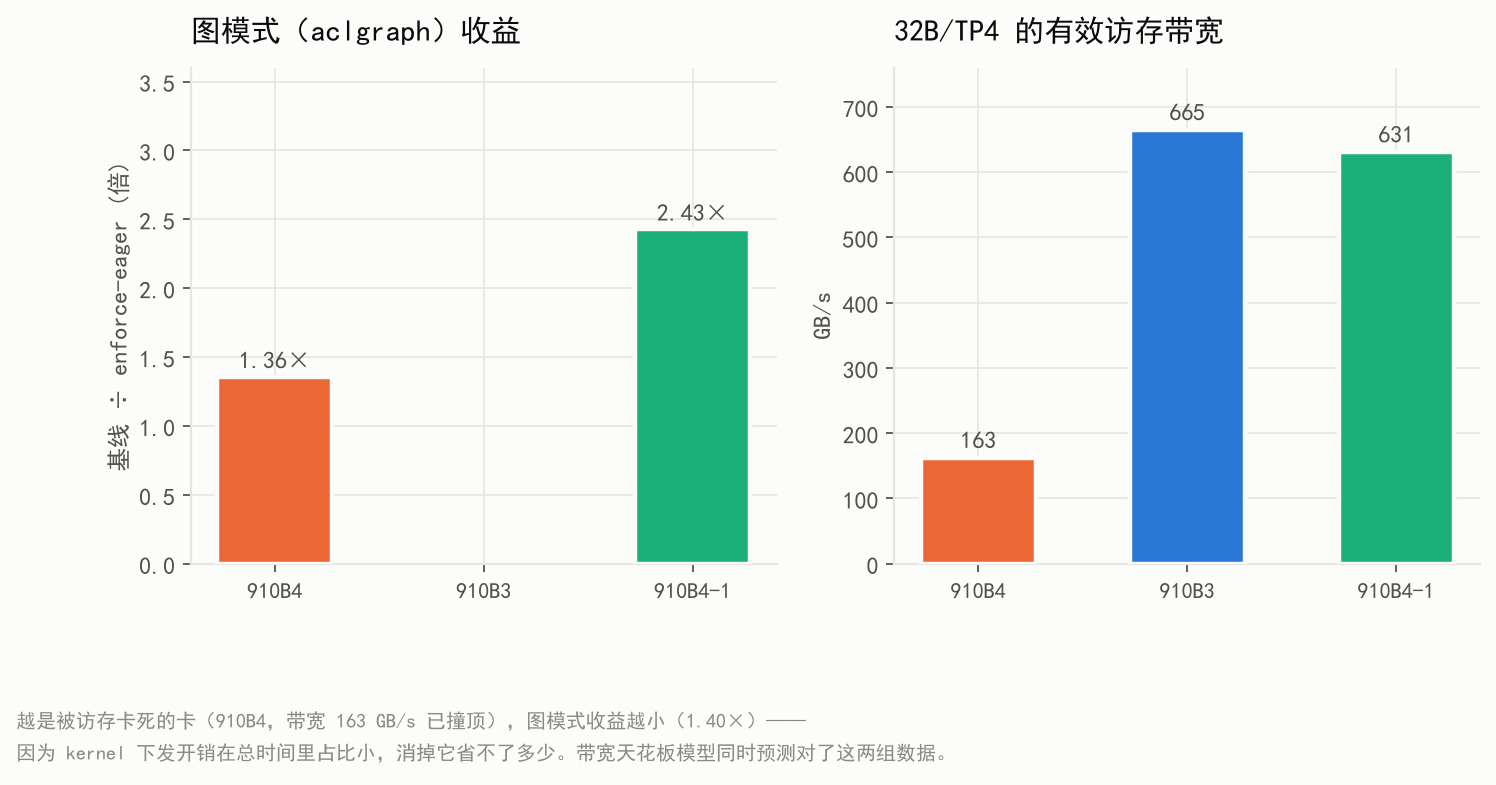
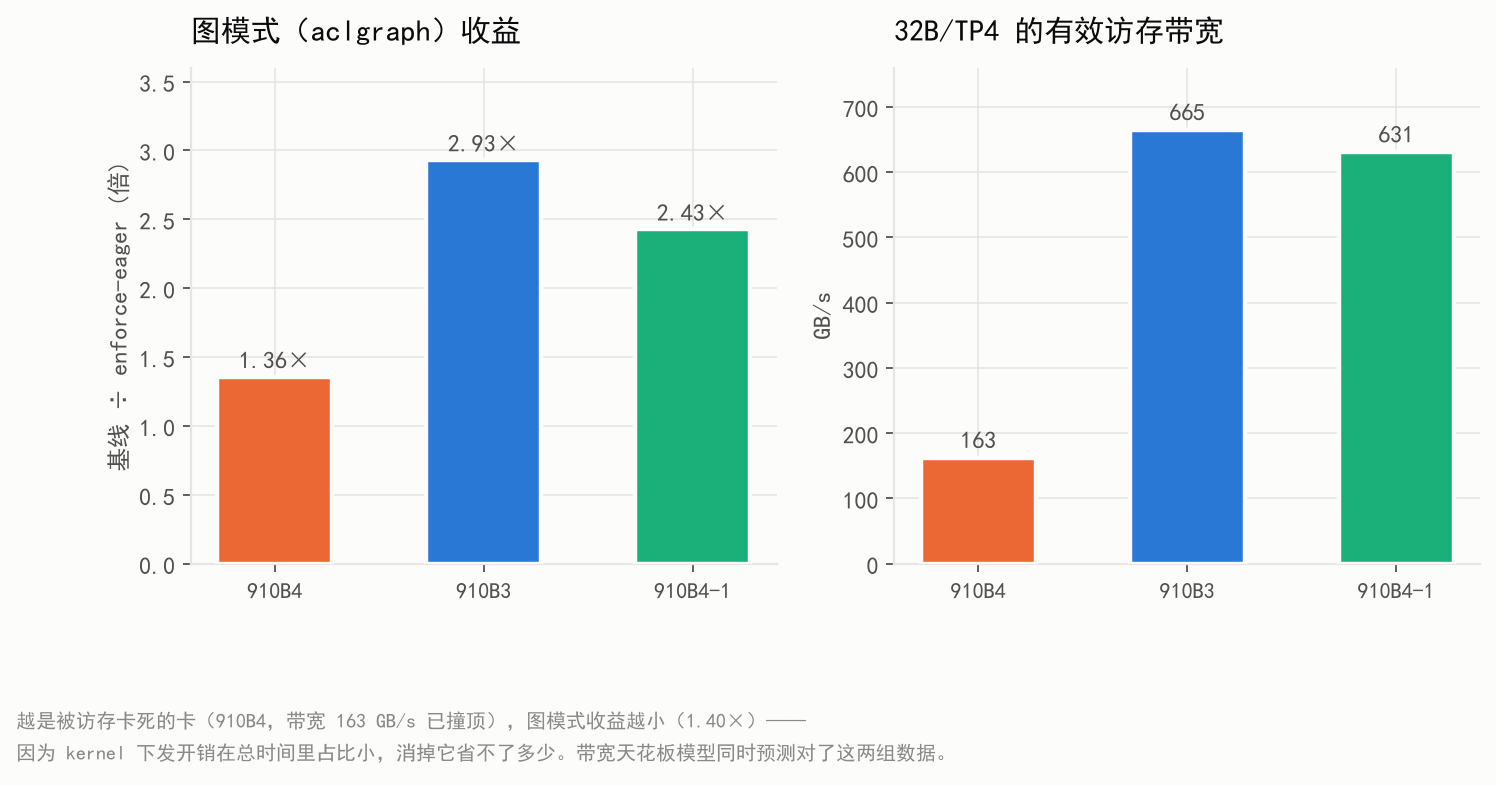
content(draft): 参数结论按三型号数据修正，中英双语同步
910B3 补齐 x3 后,两条结论要改:
- weight_nz_mode: 「方向相反」→「三型号三种表现」(+8.86% / -1.04%噪声内 / -2.23%)
- enable_flashcomm1: 「唯一有正收益」→「两台有效、910B3 上无效(+0.34%)」

修正后的结论反而更强:
8 个昇腾专属参数里,唯二有收益的都在某个型号上失效或反转
→ 没有一份「昇腾调优最佳实践」能跨型号照抄,每换 SKU 都得重测

表格新增「效应/噪声倍数」列,并明确标注「噪声内」的点只能说无收益、不能说有害

Claude-Session: https://claude.ai/code/session_01RZfESbLUbLZAfKUXXmW8YV

Changed region(s): [[0.2767, 0.1529, 0.369, 0.7338]]

diff --git a/content/posts/ascend-3models-bandwidth-ceiling/index.md b/content/posts/ascend-3models-bandwidth-ceiling/index.md
@@ -10,7 +10,7 @@ ShowToc: true
 > **TL;DR** — I had three Ascend boxes at once: 910B4 (32G), 910B3 (64G), 910B4-1 (64G). Same image digest, same methodology, 504 measured points. Five numbers worth remembering:
 > **(1) Small models give you the opposite answer** — 910B4 vs 910B3 is **11%** slower on 4B, **309%** slower on 32B;
 > **(2) The mechanism is an effective-bandwidth ceiling** — 910B4 flatlines at **~160 GB/s** from just 2 GB of weights per card, while the other two climb to **665 GB/s**;
-> **(3) Of 8 Ascend-only tuning knobs, exactly one helps** (`enable_flashcomm1`, **+4~5%**), and `weight_nz_mode` **flips sign between SKUs of the same generation: +8.86% vs −2.23%** (both x3-verified, 3~25× the noise floor);
+> **(3) Of 8 Ascend-only tuning knobs, not one works across all three SKUs** — `weight_nz_mode` gives three different outcomes (+8.86% / −1.04% / −2.23%), and `enable_flashcomm1` buys +4~5% on two boxes but is dead on the third (all x3-verified);
 > **(4) Quantization buys latency, not throughput** — W8A8 gives +13% throughput but **+80% goodput**; meanwhile the card with the *biggest* throughput gain (+29%) gains **zero** usable capacity;
 > **(5) I'm retracting a July conclusion** — "Ascend fp16 is 15% slower than bf16" was a **protocol asymmetry**. Same box, same protocol, the real gap is **3%**.
 
@@ -122,19 +122,25 @@ Ascend exposes a set of tuning knobs that simply don't exist in CUDA land (`weig
 
 **Every point measured 3× independently, median reported. The measured x3 spread is only 0.06~0.92%** — which is why these percentages are signal, not noise:
 
-| Parameter | 910B4 | 910B4-1 | Effect / noise | Verdict |
+| Parameter | 910B4 (32G) | 910B3 (64G) | 910B4-1 (64G) | Verdict |
 |---|---:|---:|---:|---|
-| `--enforce-eager` | **−26.32%** | **−58.80%** | 28× / 72× | graph mode is mandatory |
-| **`weight_nz_mode = 2`** | **+8.86%** ⬆ | **−2.23%** ⬇ | 25× / 3× | ⚠ **opposite sign** |
-| **`enable_flashcomm1 = true`** | **+5.07%** | **+4.01%** | 12× / 5× | ✅ the only real win |
-| `enable_static_kernel = true` | +0.08% | −0.94% | 0× / 1× | ⚪ **no gain** (inside noise) |
-| `enable_cpu_binding = false` | +0.3% | −0.1% | — | ⚪ no effect |
+| `--enforce-eager` | **−26.32%** (28×) | **−65.87%** (51×) | **−58.80%** (72×) | graph mode is mandatory |
+| **`weight_nz_mode = 2`** | **+8.86%** (25×) ⬆ | −1.04% *(in noise)* | **−2.23%** (3×) ⬇ | ⚠ **three SKUs, three outcomes** |
+| **`enable_flashcomm1 = true`** | **+5.07%** (12×) | +0.34% *(in noise)* | **+4.01%** (5×) | ⚠ **works on two, dead on the third** |
+| `enable_static_kernel = true` | +0.08% *(in noise)* | — | −0.94% *(in noise)* | ⚪ **no gain** |
+| `enable_cpu_binding = false` | +0.3% | −0.5% | −0.1% | ⚪ no effect |
 
-> ⚠ **The 910B3 box was in use by someone else, so it has no x3 arm.** That's why the "opposite sign" claim below rests on two SKUs, not three.
+The bracketed figure is the **effect size as a multiple of that point's x3 spread**; anything marked *(in noise)* falls under 2.5× the noise floor, so it can only be reported as "no gain," never as "harmful."
 
-### `weight_nz_mode`: same vendor, same generation, opposite sign
+### `weight_nz_mode`: three SKUs of one generation, three different outcomes
 
-This is Ascend's NZ weight memory layout. **+8.86% on the 910B4 (25× the noise floor), −2.23% on the 910B4-1 (3× the noise floor) — both significant, opposite signs.**
+This is Ascend's NZ weight memory layout. Three same-generation SKUs give three different answers:
+
+- **910B4: +8.86%** (25× the noise floor — significantly helps)
+- **910B4-1: −2.23%** (3× the noise floor — significantly hurts)
+- **910B3: −1.04%** (inside the noise — no gain)
+
+**Exactly one SKU benefits; the other two don't, and one of them is measurably slower.**
 
 I published a line earlier this year: the same FP8 weights give **+28%** on a 4090D (Ada, has FP8 cores) and **−18%** on an A100 (Ampere, doesn't) — **GPU generation decides whether quantization is a blessing or a curse.**
 
@@ -163,13 +169,15 @@ And the trap is well hidden: turn this on in production and restarts take an hou
 
 | Outcome | Count | Parameters |
 |---|---:|---|
-| ✅ genuinely useful | **1** | `enable_flashcomm1` (+4~5%, **off by default**) |
-| ⚠ SKU-dependent | 1 | `weight_nz_mode` |
+| ⚠ SKU-dependent | **2** | `enable_flashcomm1` (+5.07% / +4.01% on two SKUs, but **only +0.34% — dead — on the 910B3**); `weight_nz_mode` (three SKUs, three outcomes) |
 | 🔴 trap | 1 | `enable_static_kernel` (no gain + 65-minute cold compile) |
 | ⚪ no effect | 2 | `enable_cpu_binding`, `fuse_norm_quant` |
 | ❌ unusable here | 4 | `enable_kv_nz` (MLA only), `xlite` (C extension not shipped in the image), `finegrained_tp_config` (MoE only, and only on the D node of a PD-disaggregated setup), `--kv-cache-dtype fp8` (operator doesn't accept it) |
 
 > **You are not going to tune your way out of a domestic accelerator's gap. The gap is in memory bandwidth, not in the flags.**
+>
+> Worse: **even "which flag helps" is SKU-dependent.** Of 8 parameters, the only two that ever produce a gain (`enable_flashcomm1`, `weight_nz_mode`) **each go dead or reverse on one of the three SKUs**.
+> Which means **no "Ascend tuning best practices" document ports across SKUs** — every SKU has to be re-measured.
 
 The `finegrained_tp_config` constraints only became clear by **reading the vllm-ascend source** (`ascend_config.py` carries a hard assert: `The finegrained tp sizes can be enabled only for MOE models`), which saved several wasted runs. Which is the broader point: **for domestic-accelerator adaptation, reading the source has a far better ROI than trying flags at random.**
 
@@ -324,4 +332,4 @@ And one for fellow practitioners:
 
 All comparisons in this post use **the same image digest, the same model files, and the same bench protocol**, so cross-SKU conclusions are comparable.
 
-**Known gaps (stated honestly)**: the 910B3 box was occupied by another user, so it has no x3 arm for the parameter matrix (which is why the "opposite sign" section rests on two SKUs); cross-node TP16 was never attempted because a neighbour had a long-running service on the second node.
+**Known gaps (stated honestly)**: cross-node TP16 was never attempted because a neighbour had a long-running service on the second node; MoE was only measured on one box (the model files differ across boxes, so the numbers aren't comparable) and is kept as an appendix.

diff --git a/content/posts/ascend-3models-bandwidth-ceiling/index.zh.md b/content/posts/ascend-3models-bandwidth-ceiling/index.zh.md
@@ -10,7 +10,7 @@ ShowToc: true
 > **太长不看** —— 手上同时有三台昇腾：910B4(32G)、910B3(64G)、910B4-1(64G)。锁同一个镜像 digest、同一套口径，跑了 474 个测试点。五个数字值得记住：
 > **(1) 用小模型选型会得出反向结论**——910B4 相对 910B3，4B 上只慢 **11%**，32B 上慢 **309%**；
 > **(2) 机制是有效访存带宽天花板**——910B4 从每卡 2GB 权重就撞死在 **~160 GB/s**，另两台一路爬到 **665 GB/s**；
-> **(3) 昇腾 8 个专属调优参数只有 1 个真有用**（`enable_flashcomm1` **+4~5%**），其中 `weight_nz_mode` **在同代不同型号上 +8.86% vs −2.23%，方向相反**（均为 x3 实测，效应量是噪声的 3~25 倍）；
+> **(3) 昇腾 8 个专属调优参数，没有一个在三个型号上都有效**——`weight_nz_mode` 三型号三种表现（+8.86% / −1.04% / −2.23%），`enable_flashcomm1` 两台 +4~5% 但第三台无效（均为 x3 实测）；
 > **(4) 量化的价值在延迟不在吞吐**——W8A8 吞吐只涨 13%，但 goodput 涨 80%；而吞吐涨最多的那张卡（+29%），可用容量一点没涨；
 > **(5) 我撤回七月的一条结论**——「昇腾 fp16 比 bf16 慢 15%」是**测量协议不对称**造成的假象，同机同协议实测只差 **3%**。
 
@@ -122,19 +122,25 @@ ShowToc: true
 
 **每个点独立跑 3 次取中位（x3），实测 x3 极差只有 0.06~0.92%**——所以下面这些百分比是可信的，不是噪声：
 
-| 参数 | 910B4 | 910B4-1 | 效应/噪声 | 判定 |
+| 参数 | 910B4 (32G) | 910B3 (64G) | 910B4-1 (64G) | 判定 |
 |---|---:|---:|---:|---|
-| `--enforce-eager` | **−26.32%** | **−58.80%** | 28× / 72× | 图模式必须开 |
-| **`weight_nz_mode = 2`** | **+8.86%** ⬆ | **−2.23%** ⬇ | 25× / 3× | ⚠ **方向相反** |
-| **`enable_flashcomm1 = true`** | **+5.07%** | **+4.01%** | 12× / 5× | ✅ 唯一有正收益 |
-| `enable_static_kernel = true` | +0.08% | −0.94% | 0× / 1× | ⚪ **无收益**（落在噪声内） |
-| `enable_cpu_binding = false` | +0.3% | −0.1% | — | ⚪ 无影响（扫描值，量级同噪声） |
+| `--enforce-eager` | **−26.32%** (28×) | **−65.87%** (51×) | **−58.80%** (72×) | 图模式必须开 |
+| **`weight_nz_mode = 2`** | **+8.86%** (25×) ⬆ | −1.04% *(噪声内)* | **−2.23%** (3×) ⬇ | ⚠ **三型号三种表现** |
+| **`enable_flashcomm1 = true`** | **+5.07%** (12×) | +0.34% *(噪声内)* | **+4.01%** (5×) | ⚠ **两台有效、一台无效** |
+| `enable_static_kernel = true` | +0.08% *(噪声内)* | — | −0.94% *(噪声内)* | ⚪ **无收益** |
+| `enable_cpu_binding = false` | +0.3% | −0.5% | −0.1% | ⚪ 无影响 |
 
-> ⚠ **910B3(122) 因被他人占用未补 x3**，本表只列两台。这也是为什么下面「方向相反」只用两个型号说事。
+括号内是**效应量相对该点 x3 极差的倍数**；标"噪声内"的说明效应量小于 2.5 倍噪声，**只能说"无收益"，不能说"有害"**。
 
-### `weight_nz_mode`：同一家、同一代，方向相反
+### `weight_nz_mode`：同一代三个型号，三种表现
 
-这是昇腾专属的 NZ 权重内存布局。**在 910B4 上 +8.86%（噪声的 25 倍），在 910B4-1 上 −2.23%（噪声的 3 倍）——两侧都显著，且符号相反。**
+这是昇腾专属的 NZ 权重内存布局。三个同代型号给出三种结果：
+
+- **910B4：+8.86%**（噪声的 25 倍，显著有效）
+- **910B4-1：−2.23%**（噪声的 3 倍，显著有害）
+- **910B3：−1.04%**（落在噪声内，无收益）
+
+**只有一个型号受益，另两个不受益，其中一个还显著变慢。**
 
 我之前发过一条金句：同一份 FP8 权重，在 4090D（Ada，有 FP8 核）上 **+28%**，在 A100（Ampere，无 FP8 核）上 **−18%**——**GPU 代次决定量化是福是祸**。
 
@@ -164,13 +170,15 @@ ShowToc: true
 
 | 结果 | 数量 | 参数 |
 |---|---:|---|
-| ✅ 真有用 | **1** | `enable_flashcomm1`（+4%，默认关闭） |
-| ⚠ 型号相关 | 1 | `weight_nz_mode` |
+| ⚠ 型号相关 | **2** | `enable_flashcomm1`（910B4 +5.07% / 910B4-1 +4.01%，但 **910B3 上只有 +0.34%，无效**）；`weight_nz_mode`（三型号三种表现） |
 | 🔴 坑 | 1 | `enable_static_kernel`（零收益 + 65 分钟冷编译） |
 | ⚪ 无影响 | 2 | `enable_cpu_binding`、`fuse_norm_quant` |
 | ❌ 根本用不了 | 4 | `enable_kv_nz`（仅 MLA）、`xlite`（发行版没装该 C 扩展）、`finegrained_tp_config`（仅 MoE + PD 分离的 D 节点）、`--kv-cache-dtype fp8`（算子不支持） |
 
 > **想靠调参把国产卡调出花来，是不现实的。差距在硬件带宽上，不在参数上。**
+>
+> 更麻烦的是：**连"哪个参数有用"都是型号相关的**。8 个参数里，唯一两个有正收益的（`enable_flashcomm1`、`weight_nz_mode`）**都在某个型号上失效或反转**。
+> 这意味着**没有一份"昇腾调优最佳实践"能跨型号照抄**——每换一个 SKU 都得重测。
 
 其中 `finegrained_tp_config` 的约束是**读 vllm-ascend 源码**才搞清楚的（`ascend_config.py` 里有硬 assert：`The finegrained tp sizes can be enabled only for MOE models`），省下了好几轮白跑。这也是我想说的：**做国产卡适配，读源码的 ROI 比盲试参数高得多。**
 
@@ -325,4 +333,4 @@ W8A8 相对 bf16（32B / TP4 / 并发 128）：
 
 方法学规范见系列前文的统一测试文档；本轮所有对比均为**同镜像 digest、同模型文件、同 bench 口径**，跨型号结论可比。
 
-**已知缺口（诚实标注）**：910B3 因该机被他人占用，未补参数矩阵的 x3 臂（故「方向相反」一节只用两个型号立论）；跨节点 TP16 因邻居有常驻服务未做。
+**已知缺口（诚实标注）**：跨节点 TP16 因邻居有常驻服务未做；MoE 只在单台测过（各机模型不同源，不可比），仅作附录。
